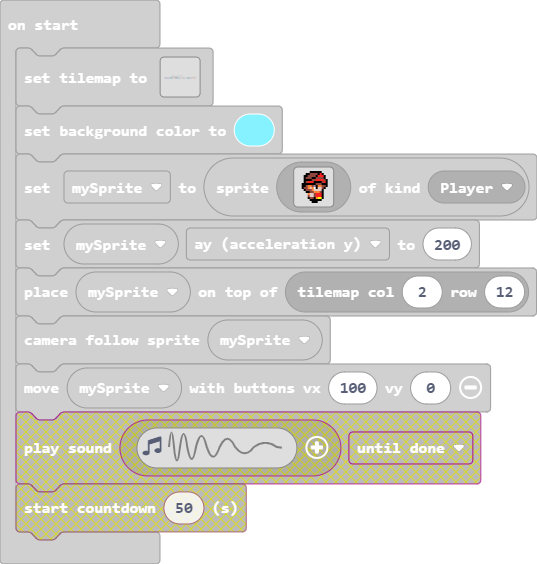
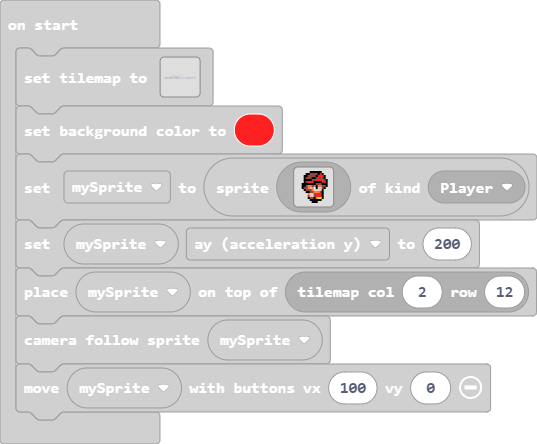
Set background color to red

diff --git a/main.ts b/main.ts
@@ -70,7 +70,7 @@ controller.left.onEvent(ControllerButtonEvent.Released, function () {
 })
 let mySprite: Sprite = null
 tiles.setTilemap(tilemap`level1`)
-scene.setBackgroundColor(9)
+scene.setBackgroundColor(2)
 mySprite = sprites.create(img`
     . . . . . . f f f f f f . . . . 
     . . . . f f e e e e f 2 f . . . 
